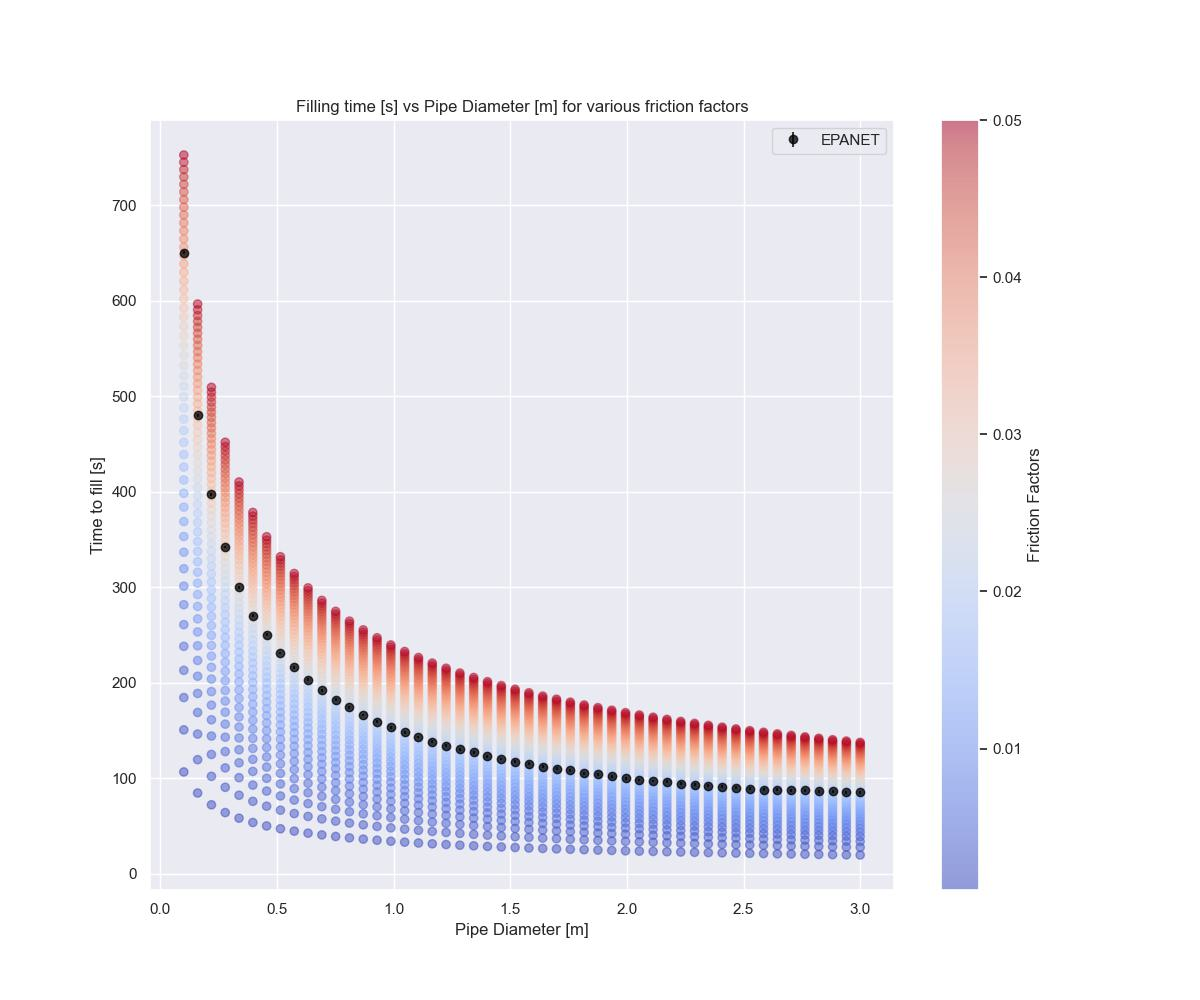
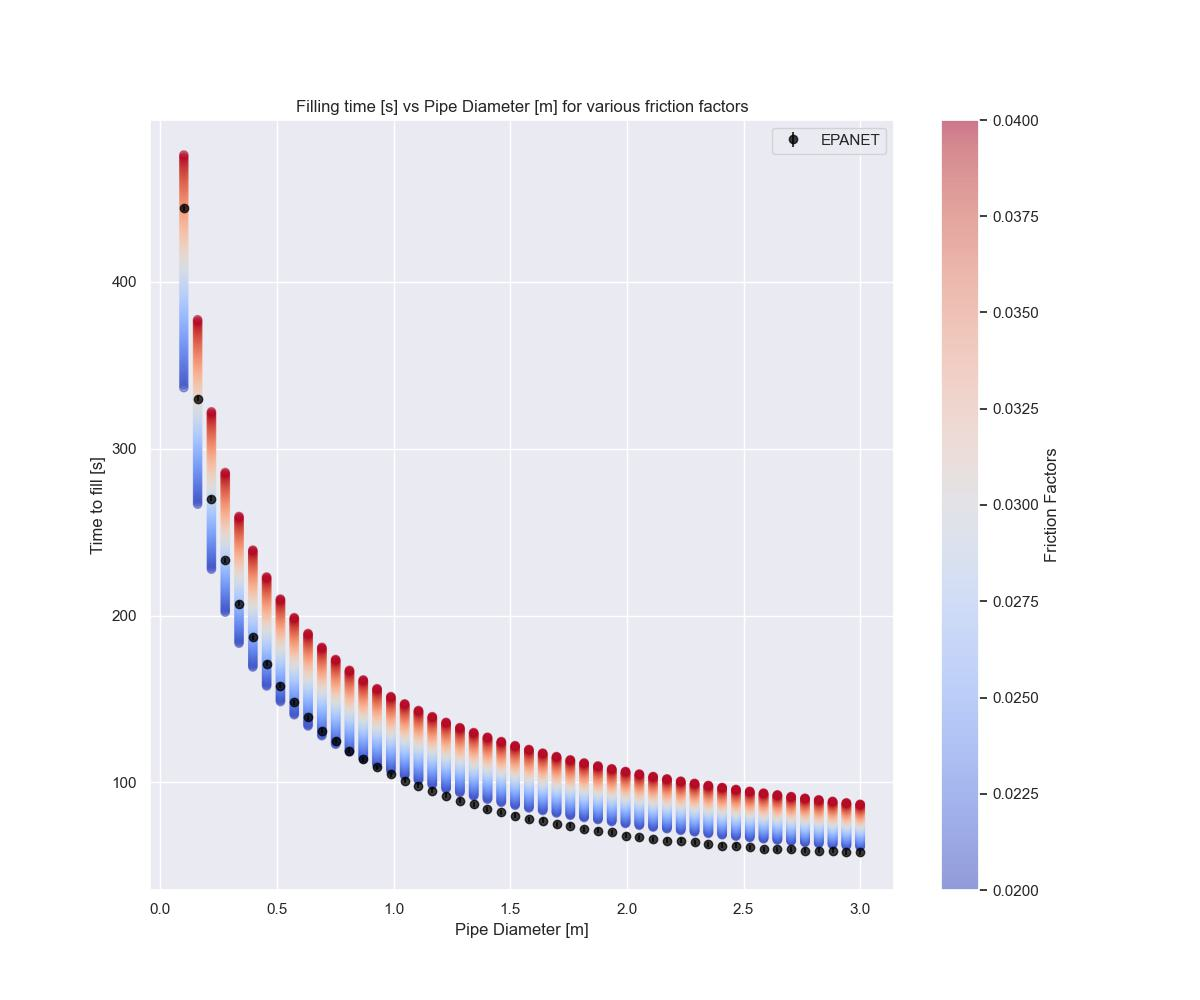
restored default values for experiments. Still need to finish implementing FrictionFactorCalculator

diff --git a/experiment_find_optimal_friction_factor.py b/experiment_find_optimal_friction_factor.py
@@ -10,6 +10,7 @@ from tqdm import tqdm
 
 from PipeConverter import PipeConverter
 from WNTRWrapper import WNTRWrapper
+from ModificationStrategy import Strategy
 
 # set seaborn theme
 cmap = sns.color_palette("coolwarm", as_cmap=True)
@@ -91,13 +92,14 @@ def get_difference(a: np.ndarray, b: np.ndarray, loss: str = "mse"):
 
 
 def create_and_run_epanet_simulation(length: float, diameter: float = 300, pressure: float = 20,
-                                     roughness: float = 100, height: float = 10, template_prefix=None) -> float:
+                                     roughness: float = 100, height: float = 10, template_prefix=None, strategy=Strategy.SINGLE_TANK_CV) -> float:
     """
     Creates an epanet file based on flat_template.inp
     :param length: pipe length
     :return: tau, time it takes for the pipe to fill
     """
-    template_filepath = os.path.join(os.getcwd(), 'test_files', 'flat_template.inp' if template_prefix is None else template_prefix)
+    template_prefix = 'flat_template.inp' if template_prefix is None else template_prefix
+    template_filepath = os.path.join(os.getcwd(), 'test_files', template_prefix)
     if not os.path.isfile(template_filepath):
         raise ValueError('Make sure that flat_template.inp is in the test_files folder')
 
@@ -122,7 +124,7 @@ def create_and_run_epanet_simulation(length: float, diameter: float = 300, press
         f.write(epanet_file)
 
     # # run simulations
-    wrapper = WNTRWrapper(epanet_file_path, True)
+    wrapper = WNTRWrapper(epanet_file_path, is_iwn=True, strategy=strategy)
     simulation_output_path = os.path.join(os.getcwd(), 'reports', epanet_file_path[:-4])
     wrapper.run_sim(simulation_output_path)
 
@@ -296,8 +298,8 @@ def run_experiments():
     Friction factor changes over pressure
     :return:
     """
-    pipe_lengths = list(np.linspace(950, 1050, 50))
-    friction_factors = np.linspace(0.001, 0.05, 100)
+    pipe_lengths = list(np.linspace(100, 200, 20))
+    friction_factors = np.linspace(0.02, 0.04, 100)
 
     # default params are pressure head of 20 and 300mm diameter
     pressure = 20

diff --git a/ModificationStrategy.py b/ModificationStrategy.py
@@ -4,8 +4,9 @@ from ParsedPipe import ParsedPipe
 
 class Strategy(Enum):
     MULTIPLE_TANKS = 1
-    SINGLE_TANK_CV = 2
+    SINGLE_TANK_CV = 2                      # the pressure is assumed to be 2x change in height
     SINGLE_TANK_PSV = 3
+    SINGLE_TANK_CV_CONSTANT_PRESSURE = 4    # pressure is assumed to be constant
 
 
 class ModificationStrategy:
@@ -15,7 +16,8 @@ class ModificationStrategy:
         self.methods = {
             Strategy.MULTIPLE_TANKS: self.multiple_tanks,
             Strategy.SINGLE_TANK_CV: self.single_tank_cv,
-            Strategy.SINGLE_TANK_PSV: self.single_tank_psv
+            Strategy.SINGLE_TANK_PSV: self.single_tank_psv,
+            Strategy.SINGLE_TANK_CV_CONSTANT_PRESSURE: self.single_tank_cv_constant_pressure
         }
 
     def evaluate(self, pipe: ParsedPipe) -> None:
@@ -25,9 +27,7 @@ class ModificationStrategy:
     def multiple_tanks(self, pipe: ParsedPipe) -> None:
         raise NotImplementedError()
 
-    def single_tank_cv(self, pipe: ParsedPipe) -> None:
-        update_pressure = False
-
+    def single_tank_cv(self, pipe: ParsedPipe, update_pressure=True) -> None:
         # insert a new tank with volume the same as that of the original pipe
         # print(pipe.diameter_equivalent)
         tank_id = self.file_parser.add_tank(f"{pipe.node_a}_{pipe.node_b}_tank", pipe.elevation_min, pipe.d_z,
@@ -45,6 +45,10 @@ class ModificationStrategy:
         # if the pipe is flat, the tank is assumed to have a height of 1m
         tank_level = 1 if pipe.d_z == 0 else pipe.d_z
         self.file_parser.add_rule(tank_id, tank_level, pipe.pipe_id)
+        return
+
+    def single_tank_cv_constant_pressure(self, pipe: ParsedPipe) -> None:
+        self.single_tank_cv(pipe, update_pressure=False)
         return
 
     def single_tank_psv(self, pipe: ParsedPipe) -> None:

diff --git a/experiment_effects_of_height.py b/experiment_effects_of_height.py
@@ -1,5 +1,6 @@
 from experiment_find_optimal_friction_factor import create_and_run_epanet_simulation, get_difference
 from PipeConverter import PipeConverter
+from ModificationStrategy import Strategy
 from tqdm import tqdm
 import numpy as np
 import os
@@ -14,7 +15,7 @@ def run_ff_simulations_up(heights, pipe_length, diameter, pressure, roughness):
     for height in tqdm(heights, total=len(heights)):
         # run epanet simulation
         # Note: for a flat pipe, the friction factor doesn't affect the pipe equivalent length since it is always 0.44
-        epanet_fill_times.append(create_and_run_epanet_simulation(pipe_length, diameter, pressure, roughness, height, template_filepath))
+        epanet_fill_times.append(create_and_run_epanet_simulation(pipe_length, diameter, pressure, roughness, height, template_filepath, strategy=Strategy.SINGLE_TANK_CV_CONSTANT_PRESSURE))
 
         # run numerical integration for different ff
         converter = PipeConverter()
@@ -25,7 +26,7 @@ def run_ff_simulations_up(heights, pipe_length, diameter, pressure, roughness):
 
 
 if __name__ == "__main__":
-    heights = np.linspace(0, 10, 20)
+    heights = np.linspace(0, 5, 40)
     pipe_length = 1000
     diameter = 0.3
     pressure = 20

diff --git a/WNTRWrapper.py b/WNTRWrapper.py
@@ -3,12 +3,14 @@ from PipeConverter import PipeConverter
 from FileParser import FileParser
 import argparse
 import os
+from ModificationStrategy import Strategy
 
 
 class WNTRWrapper:
-    def __init__(self, file: str, is_iwn: bool = False) -> None:
+    def __init__(self, file: str, is_iwn: bool = False, strategy: Strategy = Strategy.SINGLE_TANK_CV) -> None:
         self.file = file
         self.is_iwn = is_iwn
+        self.strategy = strategy
         if is_iwn:
             self.file_iwn = self.create_modified_network()
             self.wn = wntr.network.WaterNetworkModel(self.file_iwn)
@@ -18,7 +20,7 @@ class WNTRWrapper:
     def create_modified_network(self) -> str:
         # TODO: ideally these are passed as options to the class
         converter = PipeConverter()
-        parser = FileParser(self.file, converter)
+        parser = FileParser(self.file, converter, strategy=self.strategy)
 
         parser.create_intermittent_network()
         reconstructed = parser.reconstruct_file()

diff --git a/PipeConverter.py b/PipeConverter.py
@@ -35,6 +35,9 @@ class PipeConverter:
         def derivative_flat(x, t, delta_h, c):
             return np.sqrt(delta_h / c / x)
 
+        def derivative_laminar_flow(x, t, delta_h, theta, d, g):
+            return ((d ** 2) * g / 32 / x) * (delta_h - x * np.sin(theta))
+        # x: np.ndarray = odeint(derivative_laminar_flow, 1e-7, t, args=(self.d_h, theta, 0.3, self.g))
         # set to be really small number so we don't get divide by 0 errors
         if flat:
             x: np.ndarray = odeint(derivative_flat, 1e-7, t, args=(self.d_h, self.c))
@@ -52,7 +55,8 @@ class PipeConverter:
         self._calculate_c(diameter)
 
         if (not is_flat) and update_pressure:
-            print("here")
+            # TODO: Should change this so it is max(2 * d_z, base_pressure) otherwise pipes that are slightly only
+            #  slightly slanted will have really strange fill times
             self.update_pressure(2 * np.abs(d_z))
 
         # estimate simulation time needed

diff --git a/FrictionFactorCalculator.py b/FrictionFactorCalculator.py
@@ -46,5 +46,7 @@ class FrictionFactorCalculator:
         raise NotImplementedError("Currently only support pressure head of 20m. More experiments required to calculate others")
 
     def get_friction_factor(self) -> float:
-        return 0.0282
+        # 0.0263 for pressure 40
+        # 0.0282 for pressure 20
+        return 0.0275
         return self.lookup_table[self.length_closest][self.diameter_closest][self.pressure_closest]
